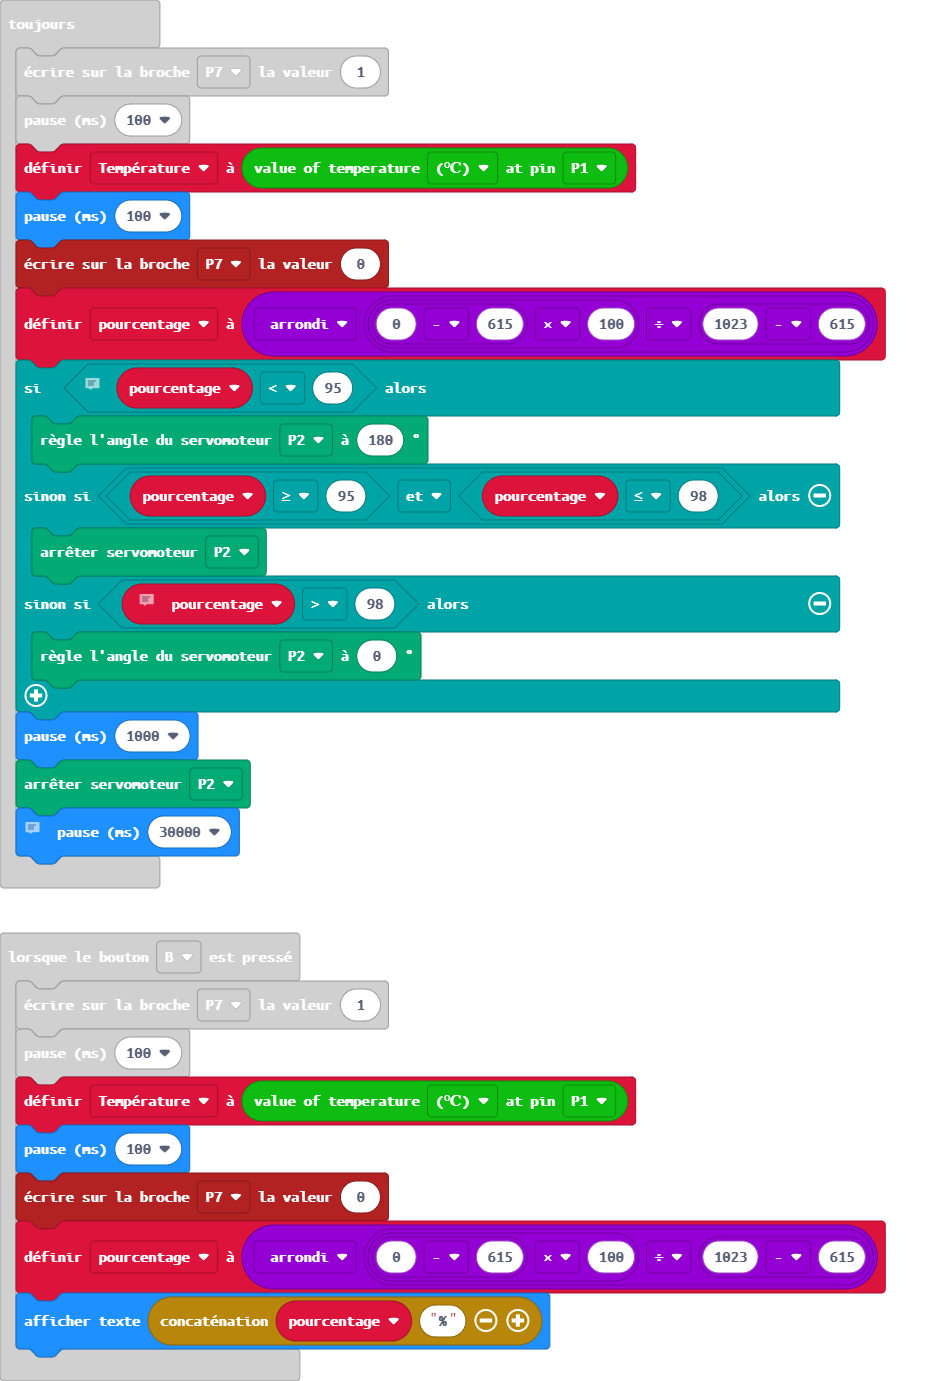
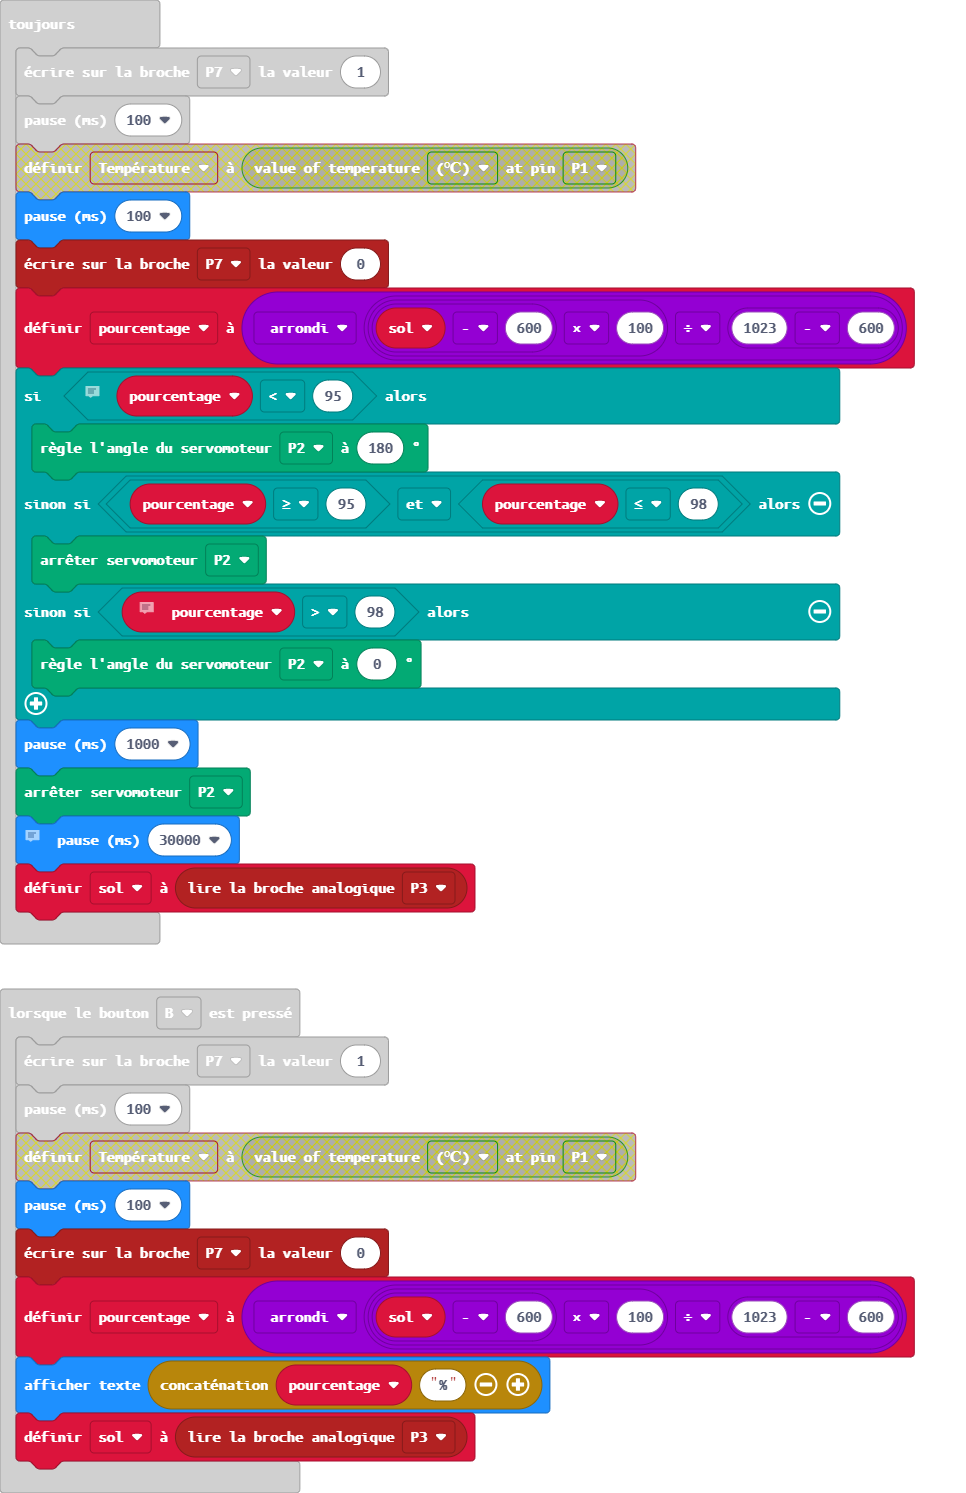
Ajuster code humidité sol

diff --git a/main.ts b/main.ts
@@ -7,16 +7,16 @@ input.onButtonPressed(Button.AB, function () {
 input.onButtonPressed(Button.B, function () {
     pins.digitalWritePin(DigitalPin.P7, 1)
     basic.pause(100)
-    Température = smarthome.ReadTemperature(TMP36Type.TMP36_temperature_C, AnalogPin.P1)
+    sol = pins.analogReadPin(AnalogPin.P3)
     basic.pause(100)
     pins.digitalWritePin(DigitalPin.P7, 0)
-    pourcentage = Math.round((0 - 615) * 100 / (1023 - 615))
+    pourcentage = Math.round((sol - 600) * 100 / (1023 - 600))
     basic.showString("" + pourcentage + "%")
 })
 let pourcentage = 0
-let Température = 0
+let sol = 0
 led.setBrightness(100)
-Température = 0
+let Température = 0
 let Angle_fenetre = 160
 let fin = pins.digitalReadPin(DigitalPin.P5)
 servos.P1.setAngle(Angle_fenetre)
@@ -27,10 +27,10 @@ servos.P2.stop()
 basic.forever(function () {
     pins.digitalWritePin(DigitalPin.P7, 1)
     basic.pause(100)
-    Température = smarthome.ReadTemperature(TMP36Type.TMP36_temperature_C, AnalogPin.P1)
+    sol = pins.analogReadPin(AnalogPin.P3)
     basic.pause(100)
     pins.digitalWritePin(DigitalPin.P7, 0)
-    pourcentage = Math.round((0 - 615) * 100 / (1023 - 615))
+    pourcentage = Math.round((sol - 600) * 100 / (1023 - 600))
     // Si l'humidité du sol est inférieure à 90 % arroser jusqu'à ce que l'humidité soit supérieure à 95%.
     // Lorsque l'humidité du sol est supérieure à 95% arrêter d'arroser jusqu'à ce que l'humidité soit inférieure à 90 %.
     if (pourcentage < 95) {
